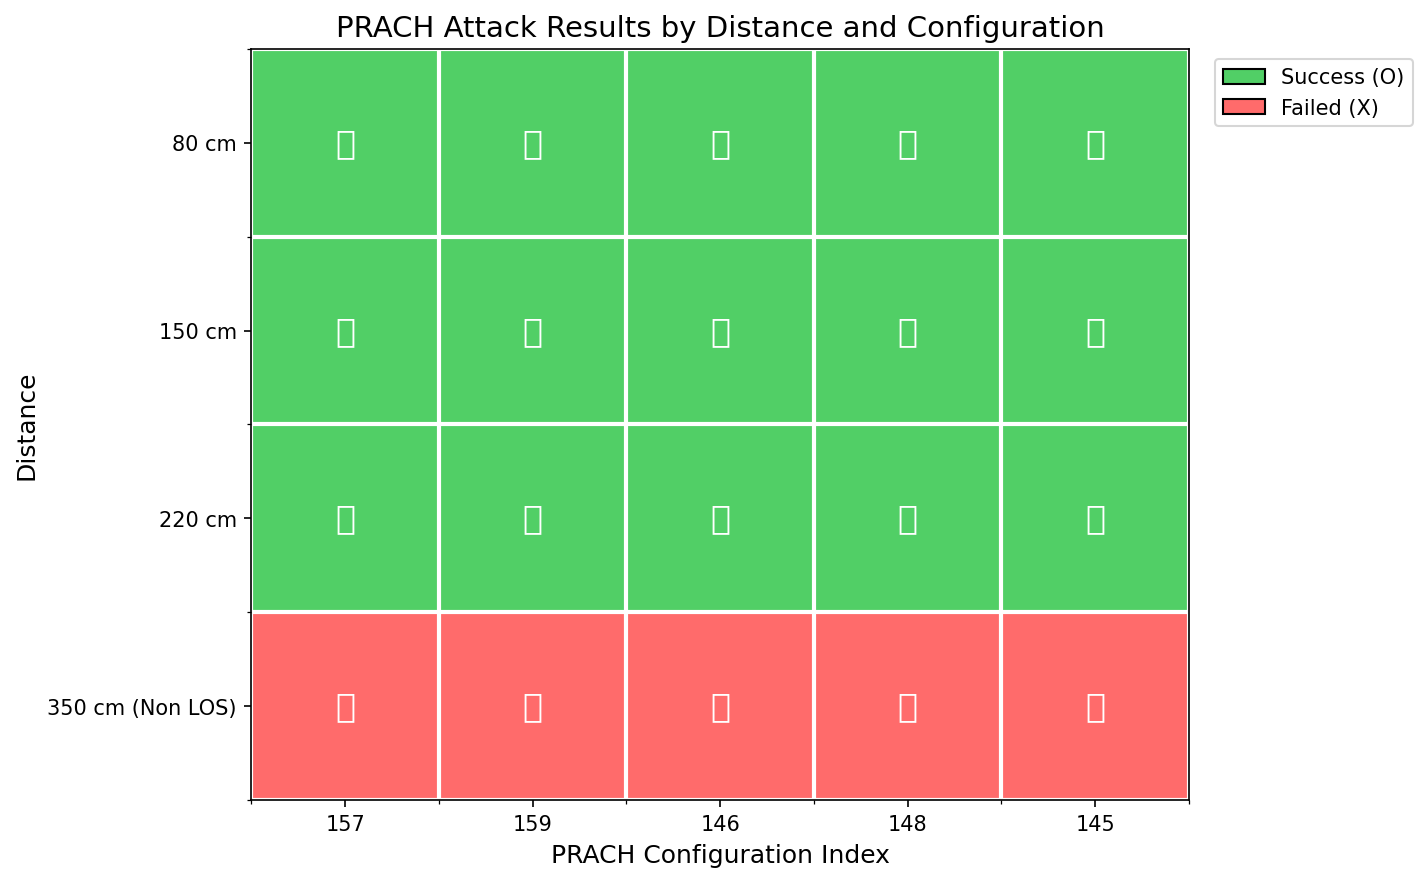
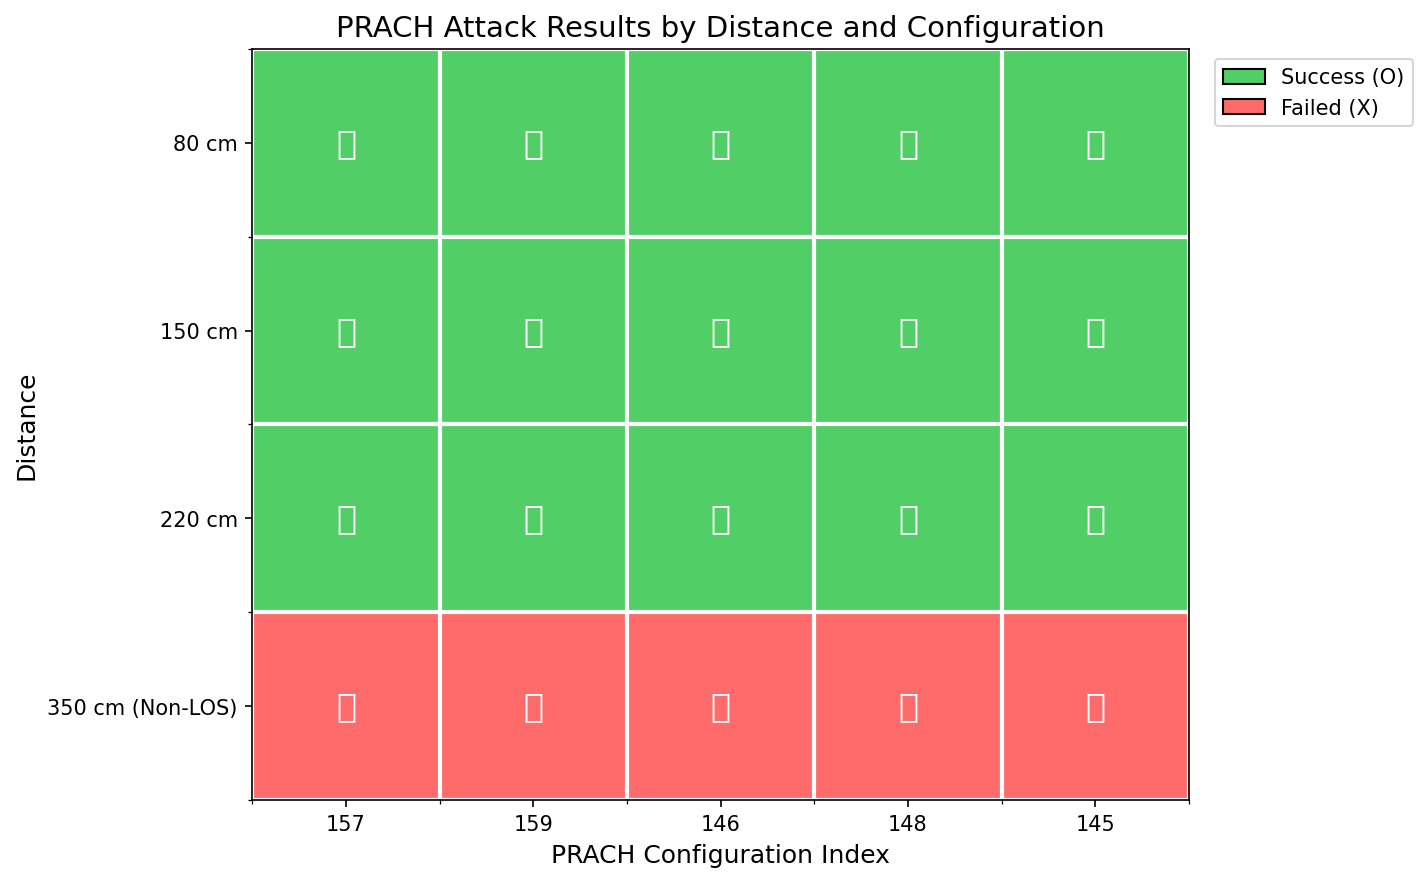
fix data input and add a script

diff --git a/1203/distance-result.py b/1203/distance-result.py
@@ -1,19 +1,34 @@
 import matplotlib.pyplot as plt
 import numpy as np
 
-# 數據定義
+# ============================================================
+# 數據定義區 - 新增測試結果請修改此區
+# ============================================================
+
+# [步驟 1] 新增距離：在此列表中加入新的距離值 (單位: cm)
 distances = [80, 150, 220, 350]
+
+# [步驟 2] 新增 PRACH Config：在此列表中加入新的 config index
 prach_configs = [157, 159, 146, 148, 145]
 
-# 結果矩陣 (1 = 成功, 0 = 失敗, NaN = 未測試)
-# 行: 距離 (80, 150, 220, 350)
-# 列: PRACH config index (157, 159, 146, 148, 145)
+# [步驟 3] 更新結果矩陣
+# - 每一行代表一個距離 (順序與 distances 列表對應)
+# - 每一列代表一個 PRACH config (順序與 prach_configs 列表對應)
+# - 值說明: 1 = 攻擊成功, 0 = 攻擊失敗, np.nan = 未測試
 results = np.array([
-    [1, 1, 1, 1, 1],  # 80cm: 157✅, 159✅, 146✅, 148✅, 145未測試
-    [1, 1, 1, 1, 1],       # 150cm: 全部✅
-    [1, 1, 1, 1, 1],       # 220cm: 全部✅
-    [0, 0, 0, 0, 0],       # 350cm: 全部❌
+    [1, 1, 1, 1, 1],       # 80cm
+    [1, 1, 1, 1, 1],       # 150cm
+    [1, 1, 1, 1, 1],       # 220cm
+    [0, 0, 0, 0, 0],       # 350cm (Non-LOS)
 ], dtype=float)
+
+# [步驟 4] 更新 Y 軸標籤 (如有新距離，需在此加入對應標籤)
+# 格式: 'XXX cm' 或 'XXX cm (備註)'
+distance_labels = ['80 cm', '150 cm', '220 cm', '350 cm (Non-LOS)']
+
+# ============================================================
+# 以下為繪圖程式碼，一般不需修改
+# ============================================================
 
 # 設置圖表
 fig, ax = plt.subplots(figsize=(10, 6))
@@ -30,7 +45,7 @@ im = ax.imshow(results, cmap=cmap, aspect='auto', vmin=0, vmax=1)
 ax.set_xticks(np.arange(len(prach_configs)))
 ax.set_yticks(np.arange(len(distances)))
 ax.set_xticklabels(prach_configs)
-ax.set_yticklabels(['80 cm', '150 cm', '220 cm', '350 cm (Non LOS)'])
+ax.set_yticklabels(distance_labels)  # 使用上方定義的標籤
 
 ax.set_xlabel('PRACH Configuration Index', fontsize=12)
 ax.set_ylabel('Distance', fontsize=12)
@@ -81,8 +96,10 @@ for i, d in enumerate(distances):
 
 bars = ax2.bar(range(len(distances)), success_rates, color=['#51cf66' if r > 50 else '#ff6b6b' for r in success_rates])
 
+# 條形圖 X 軸標籤 (將括號內容換行顯示)
+bar_labels = [label.replace(' (', '\n(') for label in distance_labels]
 ax2.set_xticks(range(len(distances)))
-ax2.set_xticklabels(['80 cm', '150 cm', '220 cm', '350 cm\n(Not LOS)'])
+ax2.set_xticklabels(bar_labels)
 ax2.set_xlabel('Distance', fontsize=12)
 ax2.set_ylabel('Success Rate (%)', fontsize=12)
 ax2.set_title('PRACH Attack Success Rate by Distance', fontsize=14)
